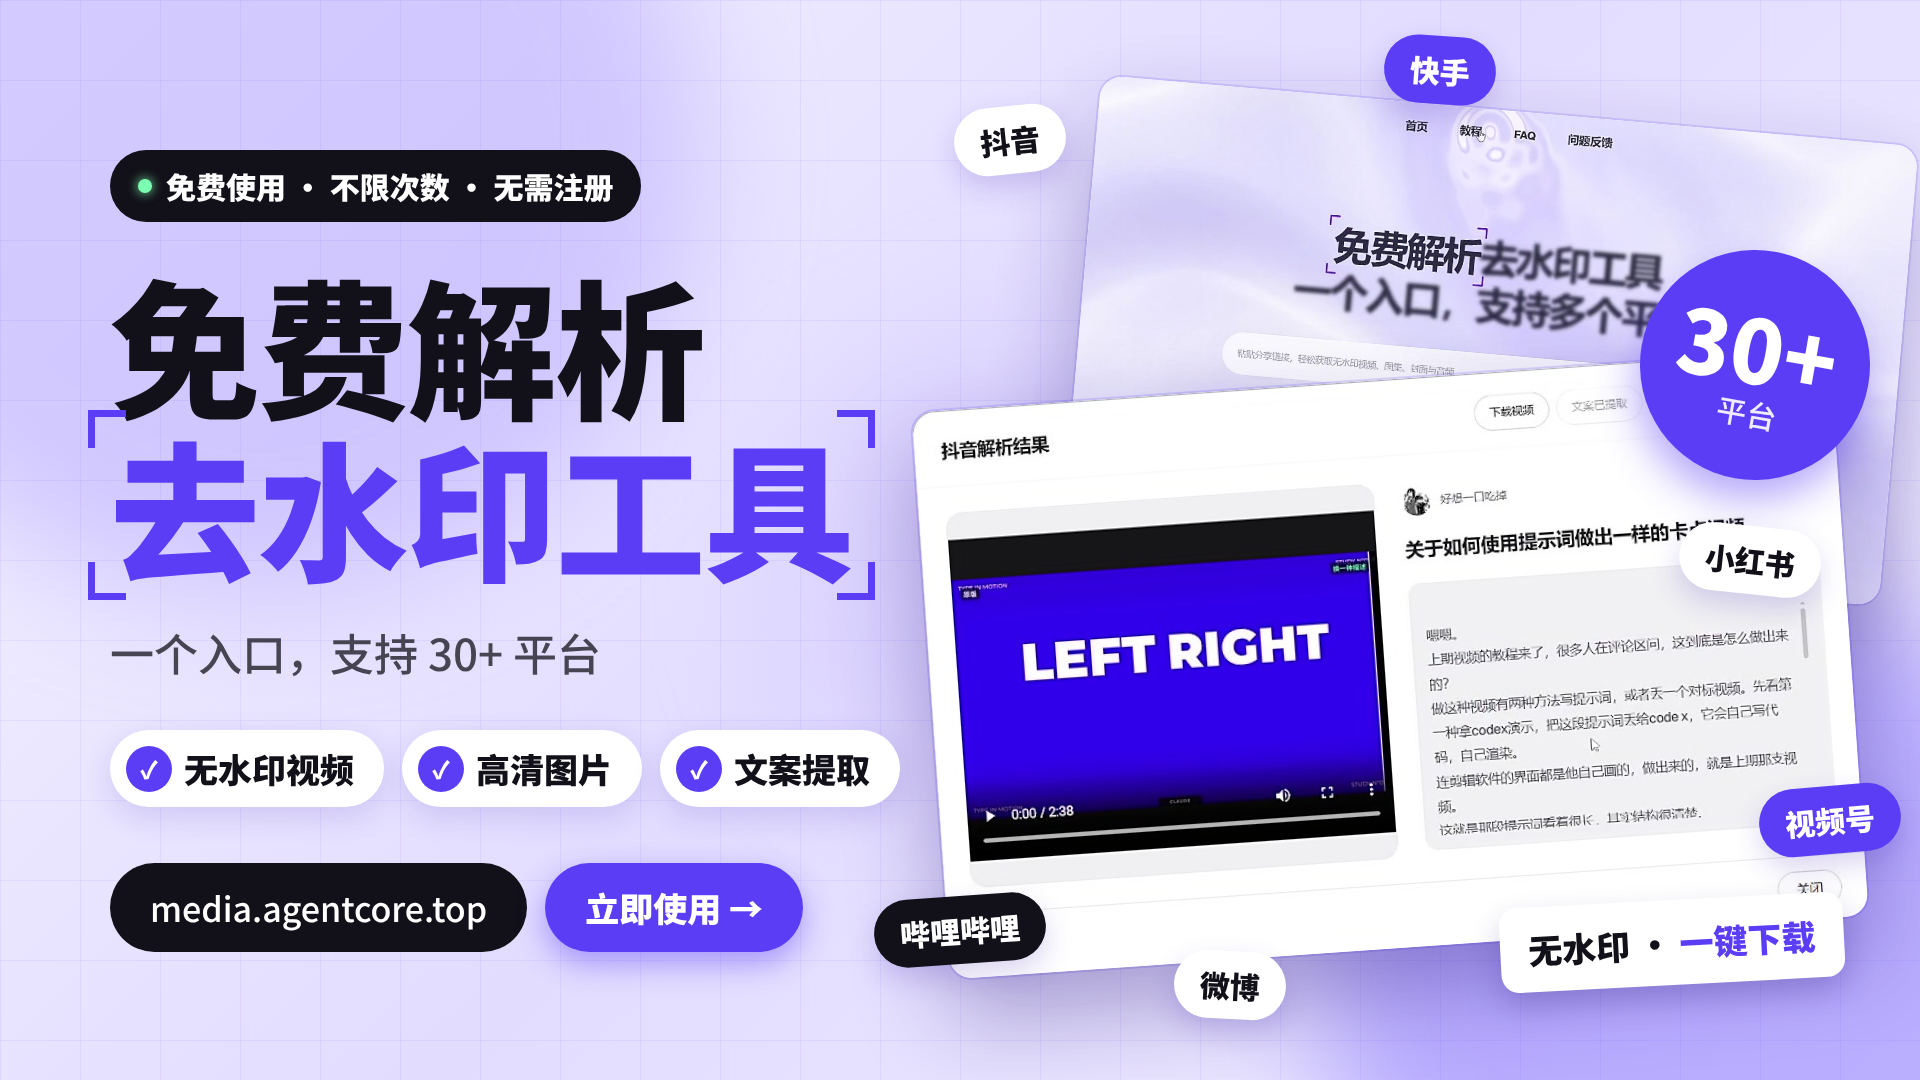
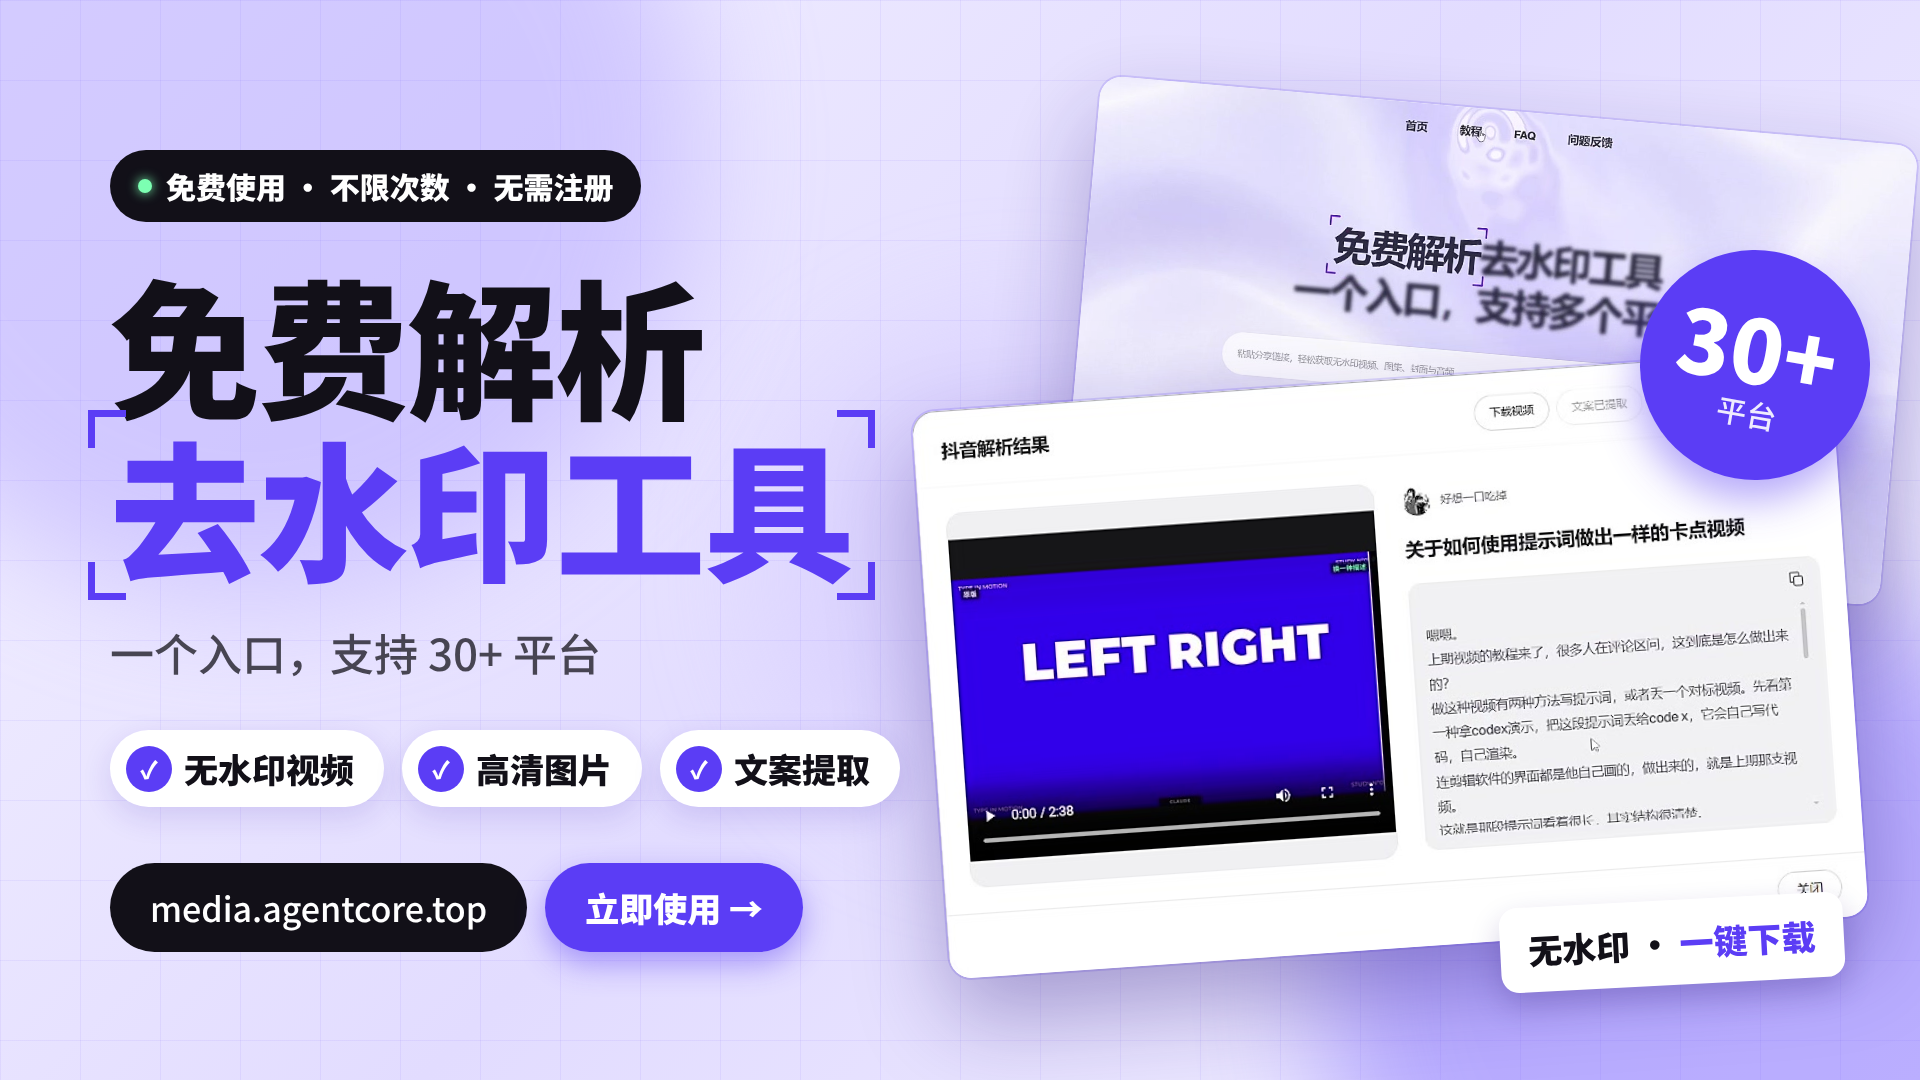
Promo covers: drop the platform name chips
Claude-Session: https://claude.ai/code/session_0178Hm7NSn1M8hoTpKekvq8q

diff --git a/videos/04-promo/film/cover.html b/videos/04-promo/film/cover.html
@@ -107,14 +107,6 @@ h1 .p{color:var(--pur);position:relative;display:inline-block}
 <script>
 const v = new URLSearchParams(location.search).get('v') || 'wide';
 document.body.className = v;
-// platform chips floating round the screenshots (positions per layout)
-const chips = v === 'wide'
-  ? [['抖音', 1010, 140, -6], ['快手', 1440, 70, 4, 'pur'], ['小红书', 1750, 560, 6], ['哔哩哔哩', 960, 930, -4, 'dark'], ['微博', 1230, 985, 3], ['视频号', 1830, 820, -5, 'pur']]
-  : [['抖音', 980, 1010, -6], ['快手', 160, 905, 4, 'pur'], ['小红书', 940, 1330, 6], ['哔哩哔哩', 430, 1400, -4, 'dark'], ['微博', 720, 1395, 3], ['视频号', 120, 1360, -5, 'pur']];
-for (const [name, x, y, r, cls] of chips) {
-  const d = document.createElement('div'); d.className = 'chip ' + (cls || ''); d.textContent = name;
-  d.style.cssText = `left:${x}px;top:${y}px;transform:translate(-50%,-50%) rotate(${r}deg)`; document.querySelector('.stage').appendChild(d);
-}
 window.ready = document.fonts.load('900 40px NSC', '免费解析').then(() => Promise.all([...document.images].map(i => i.decode())));
 </script>
 </body>
